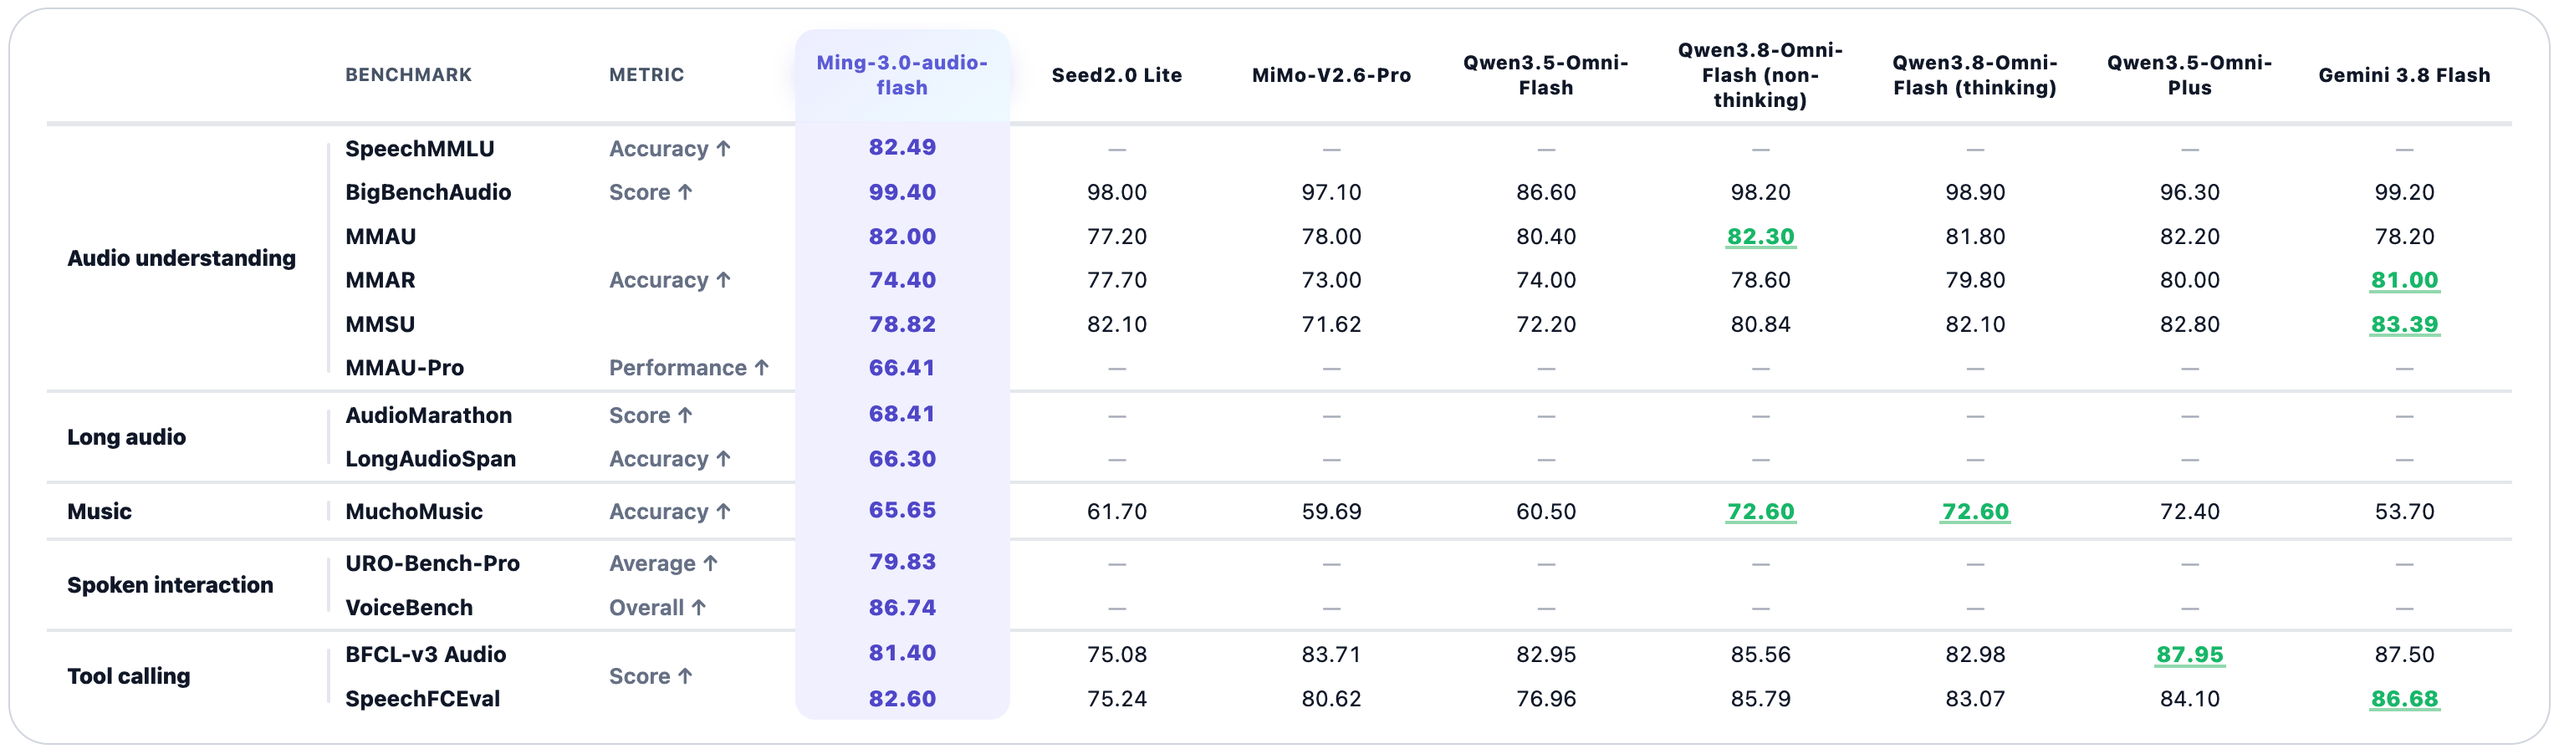
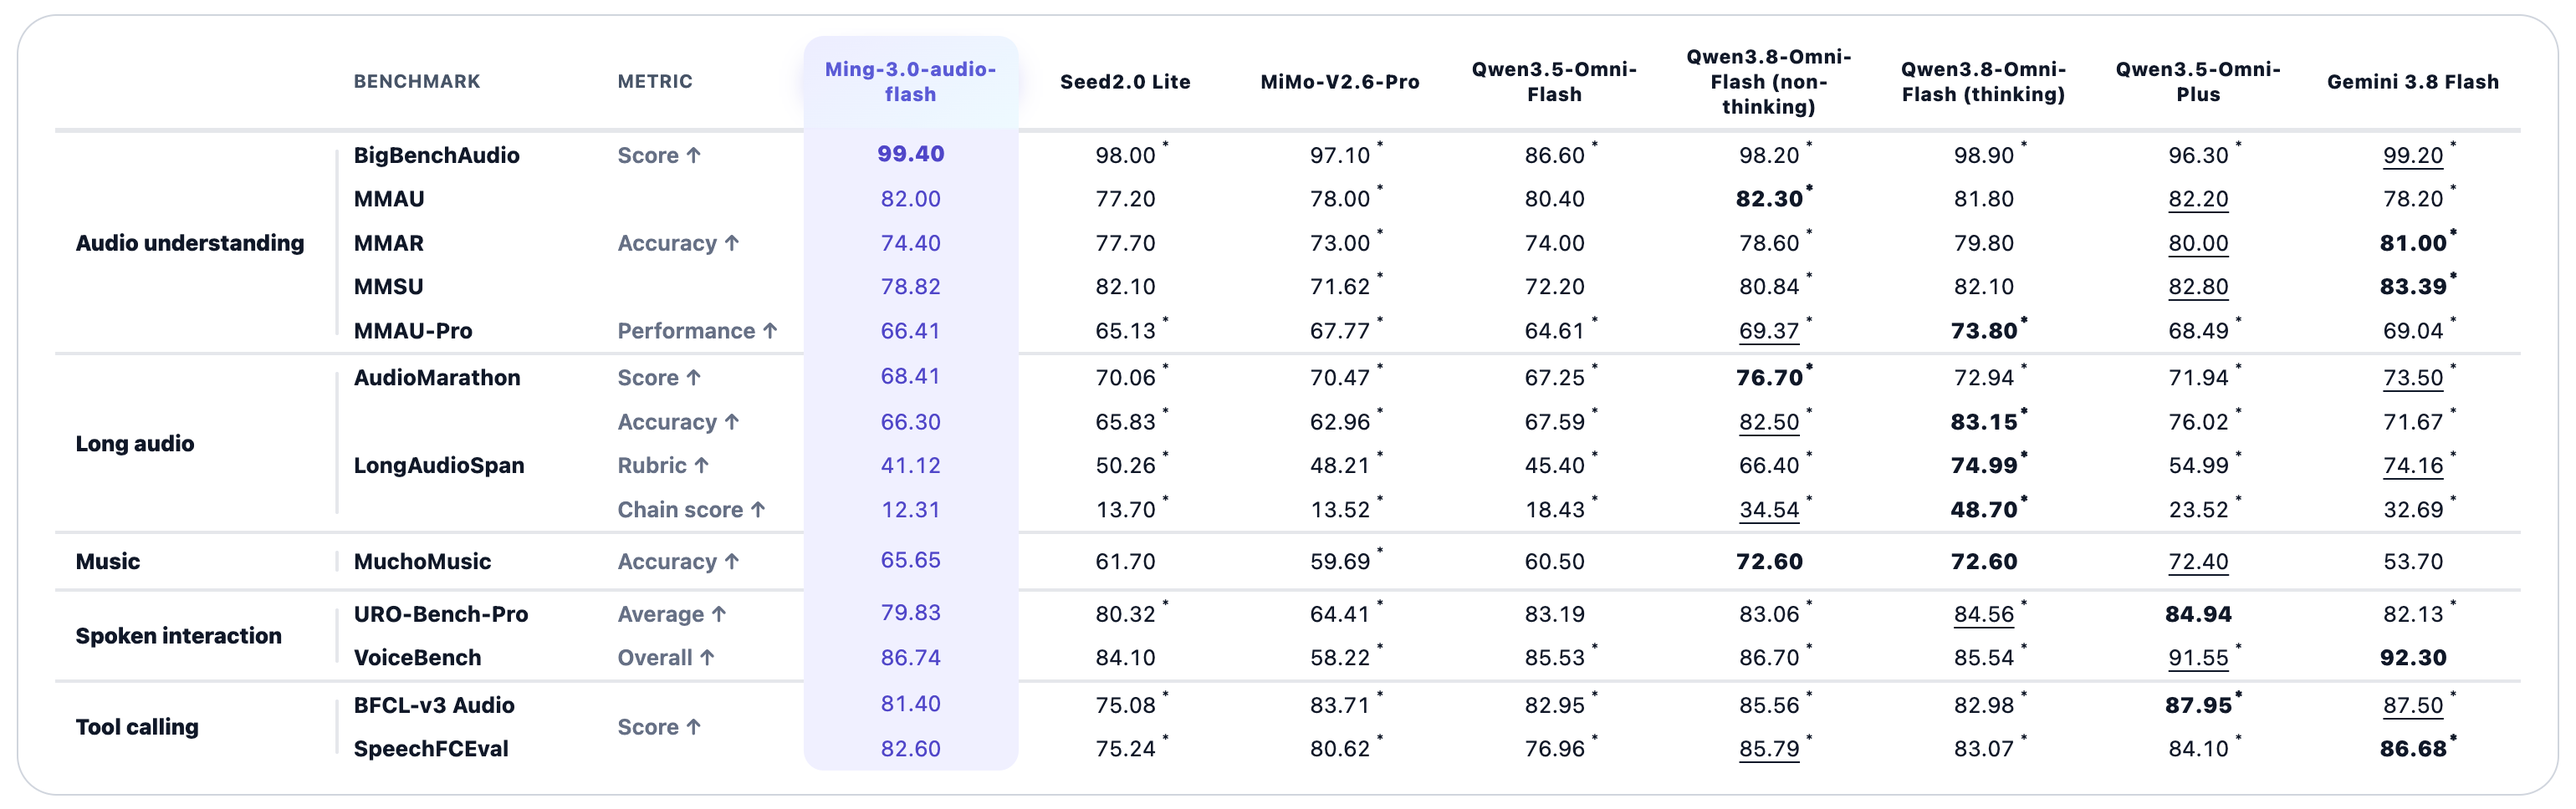
Update readme

diff --git a/README.md b/README.md
@@ -33,10 +33,16 @@ reasoning, and end-to-end spoken interaction.
 Ming-3.0-audio-flash closes the loop from **hearing the sound**, to
 **understanding the information**, to **getting the task done**.
 
+## 🏗 Architecture
+
+[![Ming-3.0-audio-flash architecture](assets/ming-3.0-audio-flash-architecture.png)](assets/ming-3.0-audio-flash-architecture.png)
+
 ## 📊 Benchmarks
 
 All scores are reported as percentages. ↑ means higher is better, while ↓
 means lower is better. Ming-3.0-audio-flash is evaluated in non-thinking mode.
+**Bold** indicates the best result, <u>underlined</u> indicates the second-best
+result, and an asterisk (`*`) indicates results obtained in our own evaluation.
 
 ### Speech Recognition
 
